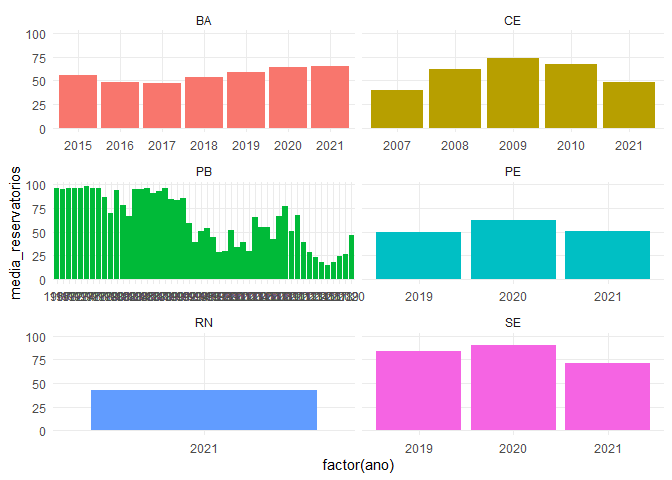
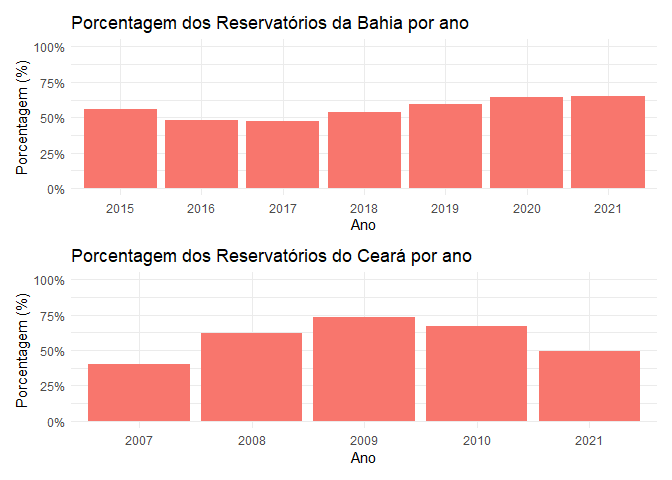
Atualização do Readme.

diff --git a/README.md b/README.md
@@ -446,18 +446,142 @@ ggplot(aes(x=as.integer(ano),y=media_reservatorios/100,fill='red'))+
 
 ## Média por UF e ano
 
+Para uma última análise, serão analisados os gráficos por UF e ano.
+Podemos ver que para o estado da Bahia, o nível dos reservatórios
+apresenta uma variação pequena em torno dos 50%. No estado do Ceará, em
+2009 apresentou a maior porcentagem de cheia de reservatório, e em 2021
+ronda perto de 50%.
+
+No caso do estado da Paraíba, vemos que até 1992 os níveis dos
+reservatórios ficam com porcentagens altas, possivelmente por ter dados
+de poucos reservatórios, e está abaixo de 50% em 2021. No estado de
+Pernambuco, a média dos reservatórios fica próximo de 50% e no Rio
+Grande do Norte está abaixo de 50%.
+
+As médias mais altas de porcentagem de reservatórios se encontra em
+Sergipe. Estão acima de 70%, sendo o pior ano até agora em 2021.
+
 ``` r
+library(patchwork)
+
 media_uf_ano <- volume_ne %>% 
   group_by(uf,ano=year(data)) %>% 
-    summarise(media_reservatorios=mean(volume_util_percent,na.rm=T) %>% 
-              round(2))
+    summarise(media_reservatorios=round(mean(volume_util_percent,na.rm=T)/100,2))
 #> `summarise()` has grouped output by 'uf'. You can override using the `.groups` argument.
 
-ggplot(media_uf_ano, aes(factor(ano),media_reservatorios,fill=uf))+
-  geom_col(show.legend = FALSE)+
-  facet_wrap(~uf,nrow = 3,scales = 'free_x')+
-  theme_minimal()+
-  theme(panel.grid.minor = element_blank())
+theme_set(theme_minimal())
+
+plot_ba <- 
+  media_uf_ano %>% 
+  filter(uf=='BA') %>% 
+  ggplot(aes(factor(ano),media_reservatorios,group=uf,fill=uf))+
+  geom_col(show.legend = FALSE) +
+  expand_limits(y=c(0,1))+
+  scale_y_continuous(labels = scales::percent)+
+  labs(
+    title='Porcentagem dos Reservatórios da Bahia por ano',
+    x='Ano',
+    y='Porcentagem (%)')
+
+plot_ce <- 
+media_uf_ano %>% 
+  filter(uf=='CE') %>% 
+  ggplot(aes(factor(ano),media_reservatorios,group=uf,fill=uf))+
+  geom_col(show.legend = FALSE) +
+  expand_limits(y=c(0,1))+
+  scale_y_continuous(labels = scales::percent)+
+  labs(
+    title='Porcentagem dos Reservatórios do Ceará por ano',
+    x='Ano',
+    y='Porcentagem (%)')
+
+plot_pb <- 
+media_uf_ano %>% 
+  filter(uf=='PB') %>% 
+  ggplot(aes(factor(ano),media_reservatorios,group=uf,fill=uf))+
+  geom_col(show.legend = FALSE) +
+  expand_limits(y=c(0,1))+
+  scale_y_continuous(labels = scales::percent)+
+  labs(
+    title='Porcentagem dos Reservatórios de Paraíba por ano',
+    x='Ano',
+    y='Porcentagem (%)')+
+  theme(
+    axis.text.x = element_text(size = 6, angle = 45)
+  )
+
+plot_pe <- 
+media_uf_ano %>% 
+  filter(uf=='PE') %>% 
+  ggplot(aes(factor(ano),media_reservatorios,group=uf,fill=uf))+
+  geom_col(show.legend = FALSE) +
+  expand_limits(y=c(0,1))+
+  scale_y_continuous(labels = scales::percent)+
+  labs(
+    title='Porcentagem dos Reservatórios de Pernambuco por ano',
+    x='Ano',
+    y='Porcentagem (%)')
+
+plot_rn <- 
+media_uf_ano %>% 
+  filter(uf=='RN') %>% 
+  ggplot(aes(factor(ano),media_reservatorios,group=uf,fill=uf))+
+  geom_col(show.legend = FALSE) +
+  expand_limits(y=c(0,1))+
+  scale_y_continuous(labels = scales::percent)+
+  labs(
+    title='Porcentagem dos Reservatórios de Rio Grande do Norte por ano',
+    x='Ano',
+    y='Porcentagem (%)')
+
+
+plot_se <- 
+media_uf_ano %>% 
+  filter(uf=='SE') %>% 
+  ggplot(aes(factor(ano),media_reservatorios,group=uf,fill=uf))+
+  geom_col(show.legend = FALSE) +
+  expand_limits(y=c(0,1))+
+  scale_y_continuous(labels = scales::percent)+
+  labs(
+    title='Porcentagem dos Reservatórios de Sergipe por ano',
+    x='Ano',
+    y='Porcentagem (%)')
+  
+
+plot_ba/plot_ce
 ```
 
 <img src="man/figures/README-media_por_uf_ano-1.png" width="100%" />
+
+``` r
+plot_pb
+```
+
+<img src="man/figures/README-media_por_uf_ano-2.png" width="100%" />
+
+``` r
+plot_pe/plot_rn
+```
+
+<img src="man/figures/README-media_por_uf_ano-3.png" width="100%" />
+
+``` r
+plot_se
+```
+
+<img src="man/figures/README-media_por_uf_ano-4.png" width="100%" />
+
+## Conclusão
+
+Apesar de ter dados incompletos e não constantes, a iniciativa de reunir
+em um só lugar dados sobre reservatórios do Nordeste pode chamar a
+atenção de como a água está sendo armazenada. Isso pode levar a fazer um
+planejamento de preservação da água e uso com melhor eficiência desse
+recurso.
+
+Há órgãos como [DNOCS](https://www.gov.br/dnocs/pt-br) e
+[ANA](https://www.gov.br/ana/pt-br), que possuem dados mais estruturados
+e organizados, e podem auxiliar melhor a análise dos níveis dos
+reservatórios da região. Tudo isso deve estar disponível para que
+melhores políticas públicas sejam elaboradas, de modo que toda a
+população seja beneficiada.
